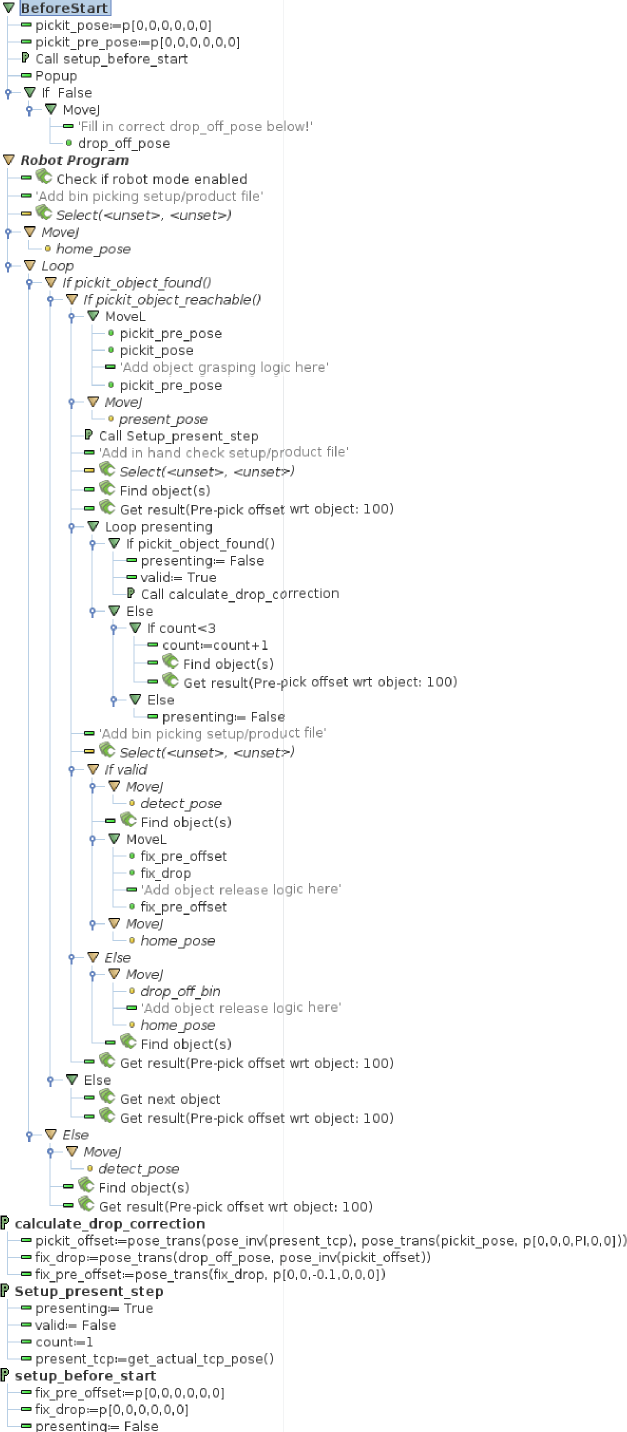
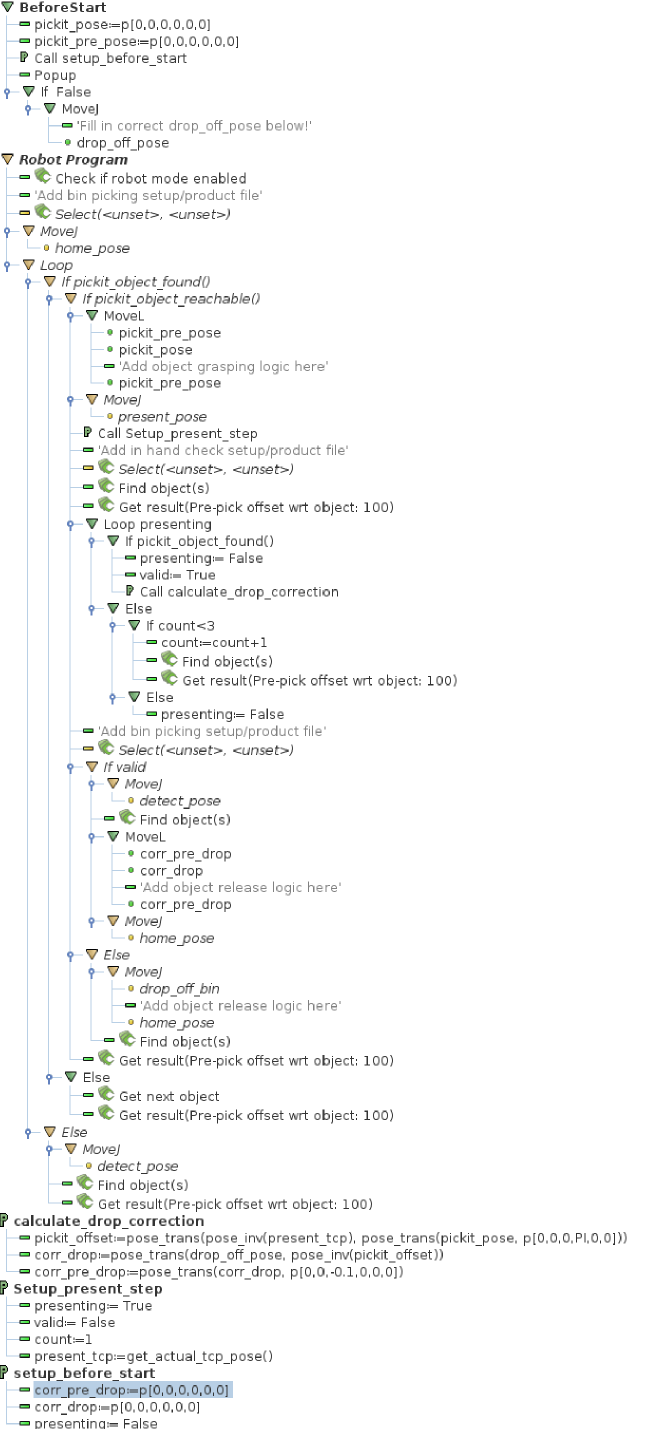
Completed first draft

Changed region(s): [[0.0, 0.0, 0.9394, 1.0], [0.3939, 0.0616, 0.4848, 0.0924], [0.9697, 0.8621, 1.0, 0.8929]]

diff --git a/docs/examples/pickit-example-case-picking-of-washers.rst b/docs/examples/pickit-example-case-picking-of-washers.rst
@@ -11,21 +11,87 @@ Motivation
 ----------
 
 For this application high accuracy is necessary to drop off the washers.
-When picking them straight from the bin it is not always easy to have this high accuracy.
+When picking them straight from the bin it is not always easy or even possible to have this high accuracy.
 One of the reasons for this is that in a random bin all parts can be partially covered by each other.
-Also specific for this application a magnetic gripper is used to pick the parts, and typically the parts tend to realign a bit when they are grasped.
+Also, specific for this application a magnetic gripper is used to pick the parts.
+When picking parts with a magnetic gripper they tend to realign a bit when they are grasped.
 
 To solve this a robot program with two steps is introduced.
-In the first step the focus is to pick one part with the gripper from the bin.
-Once the part is picked it is shown again to the Pickit camera to determine the exact position of the part in the gripper.
+In the first step the focus is to pick one part from the bin.
+Once the part is picked it is shown again to the Pickit camera to determine the exact position of the part.
 This information is then used to compensate while dropping the part.
 
-See video below for the results of this approach.
+See video below for the results of this approach. 
+Here you can clearly see that the robot compensates when dropping of the part so that all parts are all nicely stacked on top of each other.
+
+.. raw:: html
+
+  <div style="position: relative; padding-bottom: 5%; height: 0; overflow: hidden; max-width: 100%; height: auto;">
+    <iframe src="https://drive.google.com/file/d/1uwuIwv8K6r884uZ1oQ9yn6nlXUCPYlxO/preview" width="640" height="480"></iframe>
+  </div>
 
 Robot program
 -------------
 
+To set up this application the in hand check template is being used.
+The idea of this template is to first pick a part from the bin.
+Then in a second step the part is presented again to the camera.
+Now a second in hand detection is triggered to determine the exact position of the part in the gripper.
+If this detection is succesful the part is dropped off neately on the stack.
+If the detection is not succesful the part is dropped back in the bin.
+For this application accuracy is important, so when we are not entirely sure of how the part is presented it is better to drop the parts back in the bin and try again with a different part.
+
+Below the image all variables that needs to be filled in the template are explained.
+This example program can be downloaded 
+`here <https://drive.google.com/uc?export=download&id=1oXJ0EtJxgWAZcB56fw66XmzmfrEaoj0e>`__.
+
 .. image:: /assets/images/examples/ur-program-in-hand-check.png
 
-This example program can be downloaded 
-`here <https://drive.google.com/uc?export=download&id=15nEGHvmjkcJnSTu-Xy0ca3SKgGPdM8cG>`__.
+.. _drop-off-pose:
+
+Drop_off_pose
+~~~~~~~~~~~~~
+
+The waypoint **drop_off_pose** is defined where the part needs to be dropped off.
+In this template the robot will never move to this waypoint but it is used to calculate the waypoints **corr_drop** and **corr_pre_drop**.
+
+For this application the **drop_off_pose** is defined by bringing the TCP of the robot just above the center of the stack.
+This position will then be approached by the calculated pick frame of the in hand check.
+This means if the calculated pick frame is in the center of the washer the washer will be dropped over the middle, shown in the top part of the image below.
+If the calculated pick frame is somewhere at the sides of the washer the washer will be dropped with an offset, shown in the bottom part of the image below.
+
+.. image:: /assets/images/examples/pick-frame-tcp-drop-off.png
+
+.. note::
+  It is important that the **drop_off_pose** waypoint is correctly defined.
+  That is why a popup message is implemented in the template.
+
+Fixed waypoints
+~~~~~~~~~~~~~~~
+
+**Home_pose** is the starting position of the robot program.
+**Present_pose** is a waypoint where the part is presented for the in hand check.
+**Detect_pose** is a waypoint where the robot does not block the field of view of the Pickit camera to look into the bin.
+**Drop_off_bin** is a waypoint to drop back parts into the bin.
+
+Bin picking setup/product file
+~~~~~~~~~~~~~~~~~~~~~~~~~~~~~~
+
+For this application a simple :ref:`setup` file with a ROI box with similar dimensions as the actual bin is created.
+
+In the product file the :ref:`teach` detection engine is used to find the washers.
+Here half a model of the washers is taught and the pick frame is positioned at the sides.
+
+These files need to be filled in twice in the robot program.
+Once at the beginning and once after the second step, somewhere at the middle.
+
+In hand check setup/product file
+~~~~~~~~~~~~~~~~~~~~~~~~~~~~~~~~
+
+This :ref:`setup` file containes a ROI box that isolates the washer in the hand of the robot.
+
+The product file is again a :ref:`teach` detection.
+But now a full model of the washer is taught and the pick frame is positioned in the center.
+
+.. note::
+  Here the position of the pick frame is important, as discussed in the section :ref:`drop-off-pose`.
